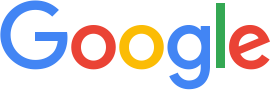
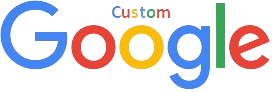
f (3)

diff --git a/src/js/index.js b/src/js/index.js
@@ -25,5 +25,12 @@ tahun.textContent = date.getFullYear();
 setInterval(() => {
   const date = new Date();
   const jam = document.getElementById("jam");
-  jam.textContent = `${date.getHours()}:${date.getMinutes()}:${date.getSeconds()}`;
+  let jams = ""
+  let menit = ""
+  let detik = ""
+
+  date.getHours() < 10 ? jams = `0${date.getHours()}` : jams = date.getHours()
+  date.getMinutes() < 10 ? menit = `0${date.getMinutes()}` : menit = date.getMinutes()
+  date.getSeconds() < 10 ? detik = `0${date.getSeconds()}` : detik = date.getSeconds()
+  jam.textContent = `${jams}:${menit}:${detik}`;
 });

diff --git a/index.html b/index.html
@@ -26,7 +26,7 @@
             <span class="material-icons">search</span>
           </div>
           <div class="search__action">
-            <button onclick="search()">Penelusuran Google</button>
+            <button onclick="search()">Penelusuran <sup>Custom </sup>Google</button>
           </div>
         </div>
       </div>
